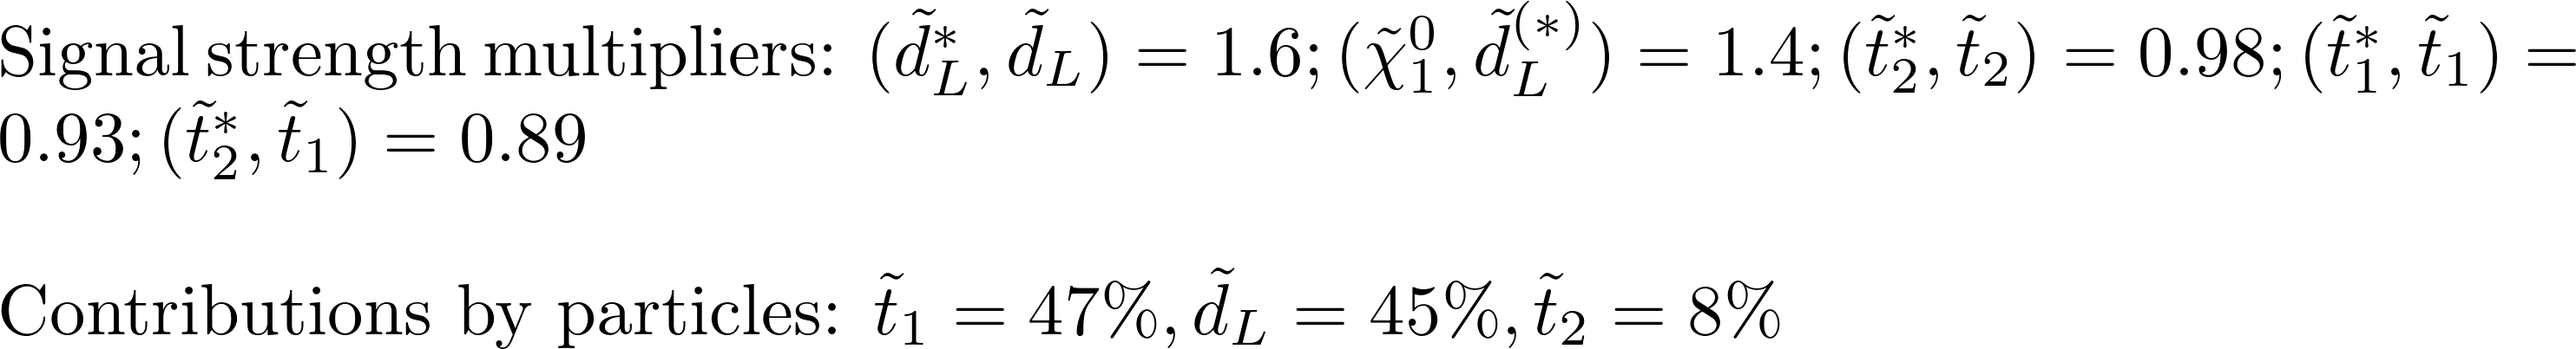
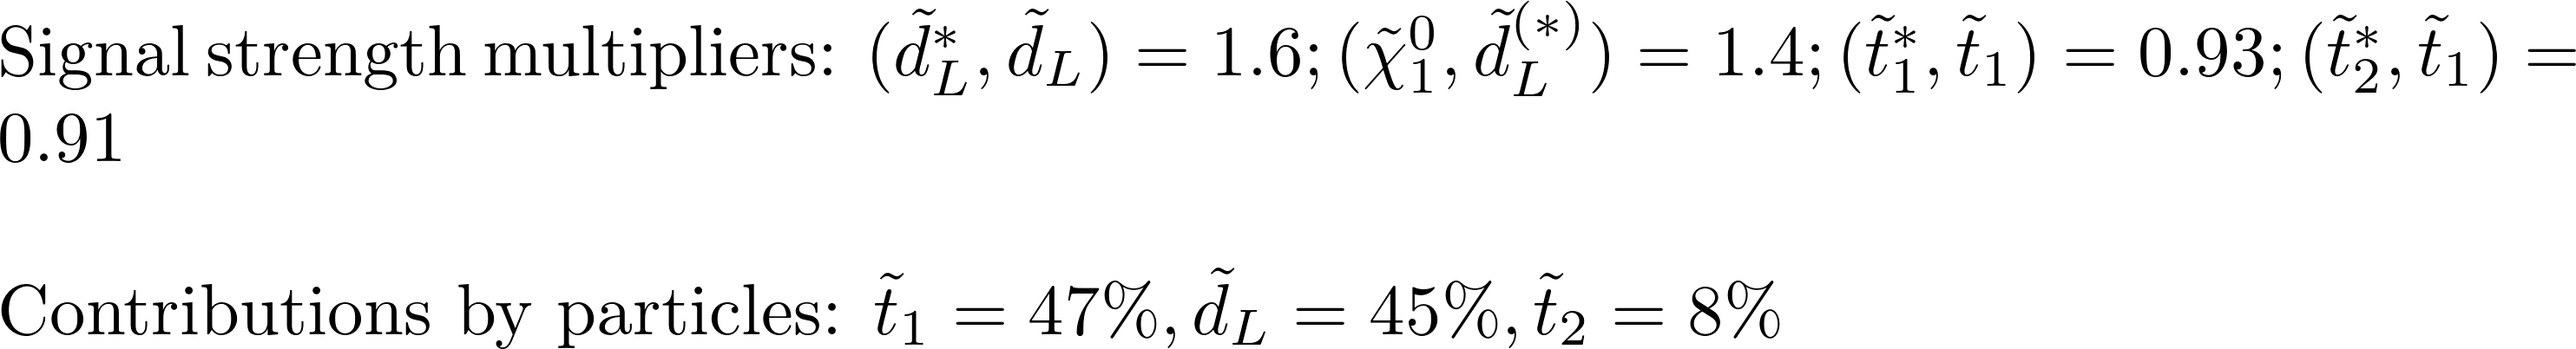
automated update by plotHiscore.py

diff --git a/protomodels/latest/index.html b/protomodels/latest/index.html
@@ -1,16 +1,16 @@
 <html>
 <body>
 <center>
-<table><td><h1>Current best protomodel: K=18.91, Z=4.72</h1><td><img height=60px src=https://smodels.github.io/pics/banner.png></table>
+<table><td><h1>Current best protomodel: K=18.94, Z=4.73</h1><td><img height=60px src=https://smodels.github.io/pics/banner.png></table>
 </center>
-<b><a href=./hiscore.slha>ProtoModel</a> <a href=./pmodel.py>(dict)</a> produced with <a href=https://smodels.github.io/docs/Validation123signal1>database v1.2.3signal1</a>, combination strategy <a href=./matrix_aggressive.png>aggressive</a> in step 328.</b> Z plots for: <a href=./M1000022.png?108042>~&chi;<sub>1</sub><sup>0</sup></a>, <a href=./M1000001.png?108042>~d<sub>L</sub></a>, <a href=./M2000006.png?108042>~t<sub>2</sub></a>, <a href=./M1000006.png?108042>~t<sub>1</sub></a>. HPD plots for: <a href=./llhd1000001.png?108042>~d<sub>L</sub></a>, <a href=./llhd2000006.png?108042>~t<sub>2</sub></a>, <a href=./llhd1000006.png?108042>~t<sub>1</sub></a>. SSM plots for: <a href=./ssm_-2000006_2000006.png?108042>(~t<sub>2</sub><sup>*</sup>,~t<sub>2</sub>)</a>, <a href=./ssm_-1000006_1000006.png?108042>(~t<sub>1</sub><sup>*</sup>,~t<sub>1</sub>)</a><br>
+<b><a href=./hiscore.slha>ProtoModel</a> <a href=./pmodel.py>(dict)</a> produced with <a href=https://smodels.github.io/docs/Validation123signal1>database v1.2.3signal1</a>, combination strategy <a href=./matrix_aggressive.png>aggressive</a> in step 329.</b> Z plots for: <a href=./M1000022.png?109848>~&chi;<sub>1</sub><sup>0</sup></a>, <a href=./M1000001.png?109848>~d<sub>L</sub></a>, <a href=./M2000006.png?109848>~t<sub>2</sub></a>, <a href=./M1000006.png?109848>~t<sub>1</sub></a>. HPD plots for: <a href=./llhd1000001.png?109848>~d<sub>L</sub></a>, <a href=./llhd2000006.png?109848>~t<sub>2</sub></a>, <a href=./llhd1000006.png?109848>~t<sub>1</sub></a>. SSM plots for: <a href=./ssm_-2000006_2000006.png?109848>(~t<sub>2</sub><sup>*</sup>,~t<sub>2</sub>)</a>, <a href=./ssm_-1000006_1000006.png?109848>(~t<sub>1</sub><sup>*</sup>,~t<sub>1</sub>)</a><br>
 <table width=80%>
 <tr><td>
 <br><b>59 predictions available. Highest r values are:</b><br><ul>
-<li><a href=https://atlas.web.cern.ch/Atlas/GROUPS/PHYSICS/PAPERS/SUSY-2016-16/>ATLAS-SUSY-2016-16</a>:T2tt r=1.35, r<sub>exp</sub>=2.75<br>
-<li><a href=http://cms-results.web.cern.ch/cms-results/public-results/publications/SUS-19-006/index.html>CMS-SUS-19-006</a>:T2tt r=1.19, r<sub>exp</sub>=3.62<br>
-<li><a href=http://atlas.web.cern.ch/Atlas/GROUPS/PHYSICS/PAPERS/SUSY-2015-02/>ATLAS-SUSY-2015-02</a>:T2tt r=0.84, r<sub>exp</sub>=0.98<br>
-<li><a href=http://cms-results.web.cern.ch/cms-results/public-results/publications/SUS-16-033/index.html>CMS-SUS-16-033</a>:T2,T2tt r=0.72, r<sub>exp</sub>=0.99<br>
+<li><a href=https://atlas.web.cern.ch/Atlas/GROUPS/PHYSICS/PAPERS/SUSY-2016-16/>ATLAS-SUSY-2016-16</a>:T2tt r=1.37, r<sub>exp</sub>=2.79<br>
+<li><a href=http://cms-results.web.cern.ch/cms-results/public-results/publications/SUS-19-006/index.html>CMS-SUS-19-006</a>:T2tt r=1.20, r<sub>exp</sub>=3.67<br>
+<li><a href=http://atlas.web.cern.ch/Atlas/GROUPS/PHYSICS/PAPERS/SUSY-2015-02/>ATLAS-SUSY-2015-02</a>:T2tt r=0.85, r<sub>exp</sub>=0.99<br>
+<li><a href=http://cms-results.web.cern.ch/cms-results/public-results/publications/SUS-16-033/index.html>CMS-SUS-16-033</a>:T2,T2tt r=0.73, r<sub>exp</sub>=1.00<br>
 <li><a href=http://cms-results.web.cern.ch/cms-results/public-results/publications/SUS-19-006/index.html>CMS-SUS-19-006</a>:T2 r=0.71, r<sub>exp</sub>=1.65<br>
 </ul>
 <td><br><b>Contributions per analysis:</b><br>
@@ -23,11 +23,11 @@
 <li> <a href=http://atlas.web.cern.ch/Atlas/GROUPS/PHYSICS/PAPERS/SUSY-2015-06/>ATLAS-SUSY-2015-06</a>: 3%
 <li> <a href=https://atlas.web.cern.ch/Atlas/GROUPS/PHYSICS/PAPERS/SUSY-2013-02/>ATLAS-SUSY-2013-02</a>: 2%
 <li> <a href=http://atlas.web.cern.ch/Atlas/GROUPS/PHYSICS/PAPERS/SUSY-2015-02/>ATLAS-SUSY-2015-02</a>: 0%
-<td><img width=600px src=./texdoc.png?1593108042>
-<br><font size=-1>Last updated: Thu Jun 25 20:00:42 2020</font>
+<td><img width=600px src=./texdoc.png?1593109848>
+<br><font size=-1>Last updated: Thu Jun 25 20:30:48 2020</font>
 </table><table style="width:80%">
-<td width=45%><img height=580px src=./ruler.png?1593108042><td width=55%><img height=380px src=./decays.png?1593108042>
-<font size=-3><iframe type="text/html" height="220px" width="100%s" frameborder="0" src="./rawnumbers.html?1593108042"></iframe></font>
+<td width=45%><img height=580px src=./ruler.png?1593109848><td width=55%><img height=380px src=./decays.png?1593109848>
+<font size=-3><iframe type="text/html" height="220px" width="100%s" frameborder="0" src="./rawnumbers.html?1593109848"></iframe></font>
 </table>
 </body>
 </html>

diff --git a/protomodels/latest/pmodel.py b/protomodels/latest/pmodel.py
@@ -1,1 +1,1 @@
-{'masses': {1000001: 807.228, 1000006: 718.687, 2000006: 787.762, 1000022: 367.0}, 'ssmultipliers': {(1000001, 1000001): 1.429, (-1000001, 1000001): 1.639, (1000001, 1000006): 1.663, (-1000006, 1000001): 1.663, (1000001, 2000006): 0.887, (-2000006, 1000001): 0.887, (1000001, 1000022): 1.429, (-1000001, -1000001): 1.429, (-1000001, 1000006): 1.663, (-1000006, -1000001): 1.107, (-1000001, 2000006): 0.887, (-2000006, -1000001): 0.887, (-1000001, 1000022): 1.429, (1000006, 1000006): 3.774, (-1000006, 1000006): 0.934, (1000006, 2000006): 0.889, (-2000006, 1000006): 0.889, (1000006, 1000022): 0.0, (-1000006, -1000006): 3.774, (-1000006, 2000006): 0.889, (-2000006, -1000006): 0.889, (-1000006, 1000022): 0.0, (2000006, 2000006): 0.981, (-2000006, 2000006): 0.981, (1000022, 2000006): 0.981, (-2000006, -2000006): 0.981, (-2000006, 1000022): 0.981, (1000022, 1000022): 3.668}, 'decays': {1000001: {1000022: 1.0}, 1000006: {1000022: 1.0}, 2000006: {1000022: 1.0}, 1000022: {}}, 'timestamp': 'Thu Jun 25 20:00:37 2020', 'Z': 4.724, 'K': 18.912, 'step': 328}
+{'masses': {1000001: 807.228, 1000006: 718.687, 2000006: 787.762, 1000022: 367.0}, 'ssmultipliers': {(1000001, 1000001): 1.427, (-1000001, 1000001): 1.636, (1000001, 1000006): 1.66, (-1000006, 1000001): 1.66, (1000001, 2000006): 0.912, (-2000006, 1000001): 0.912, (1000001, 1000022): 1.427, (-1000001, -1000001): 1.427, (-1000001, 1000006): 1.66, (-1000006, -1000001): 1.105, (-1000001, 2000006): 0.912, (-2000006, -1000001): 0.912, (-1000001, 1000022): 1.427, (1000006, 1000006): 3.768, (-1000006, 1000006): 0.932, (1000006, 2000006): 0.914, (-2000006, 1000006): 0.914, (1000006, 1000022): 0.0, (-1000006, -1000006): 3.768, (-1000006, 2000006): 0.914, (-2000006, -1000006): 0.914, (-1000006, 1000022): 0.0, (2000006, 2000006): 1.008, (-2000006, 2000006): 1.008, (1000022, 2000006): 1.008, (-2000006, -2000006): 1.008, (-2000006, 1000022): 1.008, (1000022, 1000022): 3.662}, 'decays': {1000001: {1000022: 1.0}, 1000006: {1000022: 1.0}, 2000006: {1000022: 1.0}, 1000022: {}}, 'timestamp': 'Thu Jun 25 20:30:43 2020', 'Z': 4.727, 'K': 18.941, 'step': 329}
